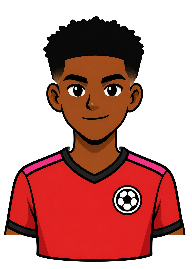
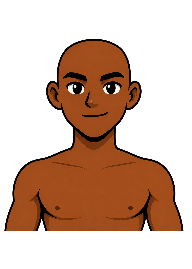
Add files via upload

diff --git a/wonderkid.html b/wonderkid.html
@@ -1233,15 +1233,20 @@ function showAchievements(){
 const AV_SKINS=["skincolour1","skincolour2","skincolour3","skincolour4","skincolour5"];
 const AV_HAIRS=["smarthairstyle","scruffyhairstyle","curlyhairstyle","wavyhairstyle","longhairstyle"];
 const AV_KITS=["blueshirt","redshirt","greenshirt","orangeshirt","purpleshirt"];
+const AV_OFF={ // per-layer nudges [dx,dy] in px at 192-wide scale, tuned visually
+  skincolour3:[-5,0], blueshirt:[0,-3], redshirt:[-3,0], greenshirt:[-4,-8], purpleshirt:[0,-16]
+};
 function svgAvatar(av,size){ // layered PNGs from /avatars, cropped to a circle
   av=av||{s:1,h:0,k:0};
-  const sc=size/192, shirtTop=Math.round(77*sc);
+  const sc=size/192;
+  const skin=AV_SKINS[(av.s||0)%5], kit=AV_KITS[(av.k||0)%5], hair=AV_HAIRS[(av.h||0)%5];
+  const so=AV_OFF[skin]||[0,0], ko=AV_OFF[kit]||[0,0];
   // tries avatars/, then avatars/avatars/ (nested zip extraction), then repo root, then hides
-  const img=(f,top)=>`<img src="avatars/${f}.png" style="top:${top}px" onerror="var r=+(this.dataset.r||0);this.dataset.r=r+1;if(r===0)this.src='avatars/avatars/${f}.png';else if(r===1)this.src='${f}.png';else this.style.display='none';">`;
+  const img=(f,dx,dy)=>`<img src="avatars/${f}.png" style="left:${Math.round(dx*sc)}px;top:${Math.round(dy*sc)}px" onerror="var r=+(this.dataset.r||0);this.dataset.r=r+1;if(r===0)this.src='avatars/avatars/${f}.png';else if(r===1)this.src='${f}.png';else this.style.display='none';">`;
   return `<span class="avwrap" style="width:${size}px;height:${size}px">
-    ${img(AV_SKINS[(av.s||0)%5],0)}
-    ${img(AV_KITS[(av.k||0)%5],shirtTop)}
-    ${img(AV_HAIRS[(av.h||0)%5],0)}
+    ${img(skin,so[0],so[1])}
+    ${img(kit,ko[0],77+ko[1])}
+    ${img(hair,so[0],so[1])}
   </span>`;
 }
 function avStep(key,dir){